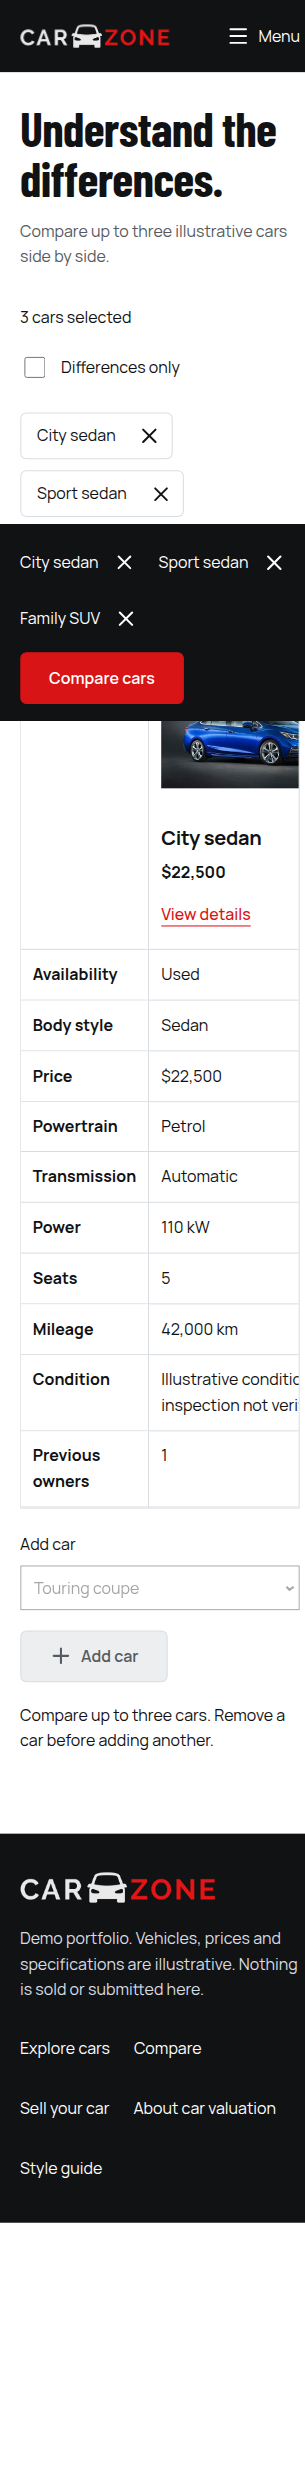
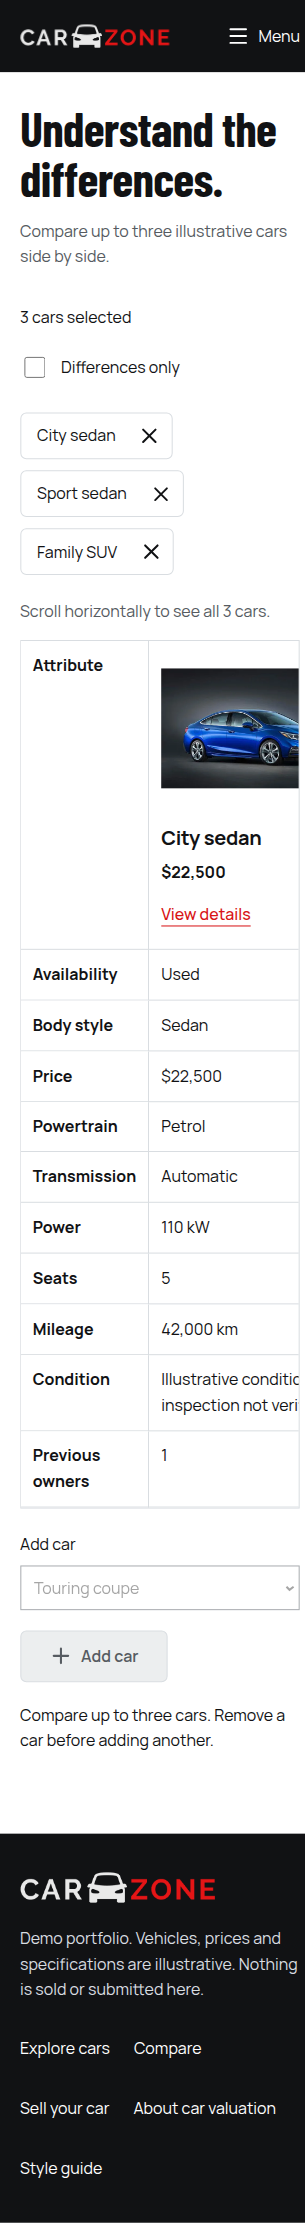
fix: keep compare tray, storage warning and saved undo readable
Hide the sticky compare tray on the compare page and reserve body
space when it is open elsewhere. Keep persistence notices on the
padded banner only. Make page-level Saved Undo sticky at 320.

diff --git a/src/styles/compare.css b/src/styles/compare.css
@@ -27,7 +27,7 @@
 .compare-add p { flex: 1 1 240px; margin: 0; }
 .compare-add .button { gap: 8px; }
 .compare-add .button:disabled { background: #eceeef; color: var(--muted); border-color: var(--line); }
-.compare-tray { position: sticky; bottom: 0; display: flex; align-items: center; justify-content: space-between; flex-wrap: wrap; gap: 16px; padding: 16px var(--gutter) max(16px,env(safe-area-inset-bottom)); background: var(--graphite); color: #fff; }
+.compare-tray { display: flex; align-items: center; justify-content: space-between; flex-wrap: wrap; gap: 16px; padding: 16px var(--gutter) max(16px,env(safe-area-inset-bottom)); background: var(--graphite); color: #fff; }
 .compare-tray ul { display: flex; flex-wrap: wrap; gap: 12px; list-style: none; padding: 0; margin: 0; }
 .compare-tray li { display: flex; gap: 4px; align-items: center; }
 .compare-tray button { display: inline-flex; padding: 10px; border: 0; }
@@ -37,7 +37,8 @@
 .saved-list h3 { font-size: 28px; margin-bottom: 8px; }
 .saved-actions { display: flex; flex-wrap: wrap; gap: 8px; margin-top: 12px; }
 .saved-actions button { display: inline-flex; align-items: center; gap: 8px; }
-.selection-undo { padding: 16px var(--gutter); background: #fff; border-block: 1px solid var(--line); }
+.selection-undo { display: flex; flex-wrap: wrap; align-items: center; gap: 12px 16px; padding: 16px var(--gutter); background: #fff; border-block: 1px solid var(--line); }
+.selection-undo p { margin: 0; flex: 1 1 12rem; }
 [data-saved-undo], [data-compare-undo] { padding-block: 16px; }
 @media (max-width: 700px) {
   .compare-page { padding-top: 32px; }

diff --git a/src/styles/shell.css b/src/styles/shell.css
@@ -136,6 +136,25 @@ dialog::backdrop {
   background: var(--graphite);
   color: #fff;
 }
+body:has(.compare-tray:not([hidden])):not([data-controller="compare"]) {
+  padding-bottom: 96px;
+}
+body[data-controller="compare"] .compare-tray {
+  display: none !important;
+}
+.storage-warning:not([hidden]) {
+  margin: 0;
+  padding-block: 12px 16px;
+  border-bottom: 1px solid var(--line);
+}
+[data-storage-warning]:not([hidden]) {
+  overflow-wrap: anywhere;
+}
+[data-page-saved-undo]:not([hidden]) {
+  position: sticky;
+  top: 0;
+  z-index: 9;
+}
 .vehicle-row {
   display: grid;
   grid-template-columns: minmax(200px,32%) minmax(0,1fr);

diff --git a/docs/qa/carzone-results.md b/docs/qa/carzone-results.md
@@ -4,9 +4,9 @@ Date: 2026-08-31 (Asia/Dhaka), with a 2026-09-01 Playwright follow-up. The origi
 
 ## 2026-09-01 follow-up (Playwright against dist/)
 
-Environment: Node v24.20.0 via nvm (host `/exec-daemon/node` remains 22.14.0; checks used the nvm binary). `npm ci` then `npm run check` on this checkout: **78 tests passed, 0 failed**, `Carzone built to dist.`, `Artifact verification passed.` Preview: `npm run preview` at `http://127.0.0.1:4176/`, serving `dist/` only. Browser: Playwright MCP Chromium, not the earlier Codex in-app browser. Favicon.ico 404 is the only console error observed (browser-default request; not an application asset).
+Environment: Node v24.20.0 via nvm (host `/exec-daemon/node` remains 22.14.0; checks used the nvm binary). Preview: `npm run preview` at `http://127.0.0.1:4176/`, serving `dist/` only. Browser: Playwright Chromium. After the P2 CSS/JS fixes, `npm run check`: **79 tests passed, 0 failed** (one new regression for the storage-warning/toast split), then `Carzone built to dist.` and `Artifact verification passed.`
 
-This follow-up was stopped before a complete visual-acceptance matrix. No application CSS/JS fixes were landed. Remaining P2 findings below are observed, not marked passed.
+This follow-up was stopped before a complete visual-acceptance matrix. The three observed P2 issues were then fixed in application CSS/JS on this branch and recaptured.
 
 ### Recaptured homepage after Task11 (`132f5f8`)
 
@@ -29,13 +29,13 @@ Keyboard: skip link Tab showed **Skip to content** at `top: 12`. Mobile menu Ent
 
 Fourteen routes × 1440/768/390/320: **56/56** with `overflowX ≤ 1` and no `href="#"` placeholders. Reduced-motion emulation: `prefers-reduced-motion: reduce` matched, hero animations 0, opacity 1. No-JS: readable home/inventory, finder and form fieldsets disabled, no submit control, 320px header wraps to expose desktop-nav links (documented no-JS behaviour). CSS `zoom: 2` at 1440 reported overflowX 23; CDP `setPageScaleFactor(2)` reported overflowX 0. Treat 200% as partial, not a pass.
 
-Storage warning (localStorage getter throws): copy **Device storage unavailable; changes last for this page.** at 1440 (`top: 88`, height 26, 16px, transparent background, 0 padding) and 320 (height 51, width 265, overflowX 0). The same copy also appears in the floating `.status` toast. Page-level Undo at 320 measured 208×48 with overflowX 0; the viewport capture scrolled to the clicked row, so the top Undo bar is not in `page-saved-undo-320.png`.
+Pre-fix storage warning (localStorage getter throws) was unpadded graphite text plus a duplicate `[data-status]` toast; pre-fix page-level Undo at 320 was not sticky. Those three P2s are recaptured after the CSS/JS fixes below.
 
-### Open P2 findings (observed, not fixed)
+### P2 fixes (recaptured)
 
-1. **Compare tray covers page content.** On `compare-car.html` with three cars, the shell tray overlapped Availability (28px) and Body style (55px). On inventory it overlapped the last vehicle row by 84px (`body` padding-bottom 0). Mobile/320 compare captures show the tray over the table header/image. Hide the tray on the compare route and reserve space when it is visible elsewhere.
-2. **Storage-warning surface is visually weak and duplicated.** Dedicated `[data-storage-warning]` is unpadded graphite body text flush under the header; `[data-status]` repeats the same sentence and, at 320, covers the Compare cars control.
-3. **Page-level Undo is easy to miss after a mid-list save toggle at 320** because it is not sticky; the toast says undo is available but does not contain the control.
+1. **Compare tray.** The tray is `position: fixed` and hidden on `compare-car.html` (`display: none`). Inventory/home reserve `padding-bottom: 96px` while the tray is open. Recapture: `compare-desktop.png`, `compare-320.png`. Measured Availability overlap 0; tray display `none` on compare; inventory last-row overlap 0 with tray visible.
+2. **Storage warning.** Persistence notices stay on `[data-storage-warning]` only; they are not copied into `[data-status]`. Banner padding `12px 0 16px` with wrapping. Recapture: `storage-warning-320.png`. Toast empty; Compare cars uncovered.
+3. **Page-level Saved Undo.** `[data-page-saved-undo]` is `position: sticky; top: 0`. Recapture: `page-saved-undo-320.png` after unsaving Family SUV mid-list. Undo bar `top: 0`, in view, button 208×48.
 
 Whole-site paired reference comparison is **not** complete. Family captures exist as working notes (`inventory-*`, `vehicle-*`, `compare-*`, `forms-*`) but were not scored against every manifest raster in one inspection pass.
 
@@ -113,7 +113,7 @@ Follow [the browser checklist](carzone-browser-checklist.md) and the approved pl
 
 ## Acceptance status
 
-Automated build/test/artifact gate: **passed** (reconfirmed 2026-09-01). Permitted Playwright journeys listed above were actually run against `dist/`. Whole-site Product Design acceptance is **not complete**: family reference pairing was not finished, three P2 visual issues remain unfixed, and this follow-up was stopped before further recaptures. No real form submission or data export.
+Automated build/test/artifact gate: **passed** (79 tests after the P2 regressions). The three observed P2 visual issues are fixed and recaptured. Whole-site Product Design pairing is still not a finished gate. No real form submission or data export.
 
 ## Final whole-branch source review
 

diff --git a/design-qa.md b/design-qa.md
@@ -13,8 +13,8 @@ Initial rendered evidence is in `docs/qa/screenshots/home-{desktop,mobile}-pass1
 | Surface | Status |
 |---|---|
 | Manrope / Barlow typography, hierarchy, wrapping | Home 1440/768/390/320 recaptured; remaining family pairing unfinished |
-| Spacing, grids, section rhythm, shapes, responsive layout | Task11 home 768/320 passed; compare-tray overlap is an open P2 |
-| Graphite / white / red tokens, contrast, states | Home comparison plus source contrast; warning/toast states observed as P2 |
+| Spacing, grids, section rhythm, shapes, responsive layout | Task11 home 768/320 passed; compare tray no longer covers table/last row |
+| Graphite / white / red tokens, contrast, states | Home comparison plus source contrast; storage warning is a single padded banner |
 | Hero / catalogue imagery, crop, proportions, Lucide icons | Home recaptures inspected; other families captured but not fully paired |
 | Exact copy, honest demo content and interactive state | Listed journeys run; whole-site pairing not claimed |
 
@@ -41,25 +41,25 @@ Remaining inventory, vehicle, comparison and forms captures must each be paired 
 
 All fourteen routes, including the production-component style guide, are implemented. Task11 source review approved the responsive changes, nearest-neighbour comparison focus restoration, readable shared CSS and safe optional/reduced-motion behavior. After the final review fix wave, `npm run check` passed78/78 tests, built the artifact and passed its independent checker. These results do not substitute for rendered comparisons.
 
-The final source fix wave adds an enduring storage-warning surface and page-level Undo for saved-toggle removals. 2026-09-01 rendered both: Undo at 1440 sits below the header with a 44px control and restores focus to Save. The warning at 1440/320 wraps without overflow but is unpadded graphite text and is duplicated by the status toast (open P2). Page-level Undo at 320 is not sticky, so a mid-list toggle leaves the control off-screen (open P2).
+The final source fix wave adds an enduring storage-warning surface and page-level Undo for saved-toggle removals. 2026-09-01 then fixed the rendered P2s: persistence copy lives only on the padded banner (no duplicate toast), and page-level Undo is sticky at 320 after a mid-list unsave. Undo at 1440 still sits below the header with a 44px control.
 
 Source-color calculations: red/white5.209:1, muted/white6.852:1, control boundary/white3.479:1, error/white7.072:1, focus blue/white5.266:1 and focus blue/graphite3.559:1. These are intended solid-color pairings, not measurements of every rendered state/background.
 
 ### 2026-09-01 family captures (working notes, not a finished pairing)
 
-Playwright captured inventory, vehicle, compare and forms at 1440/390 plus extra 768/320 notes. These were inspected for overflow, copy and the compare-tray overlay. They were **not** scored line-by-line against every manifest raster in one inspection input. Whole-site visual acceptance is not claimed.
+Playwright captured inventory, vehicle, compare and forms at 1440/390 plus extra 768/320 notes. Three P2 issues from those captures were fixed and recaptured:
 
-Open P2 from rendered captures:
+- Compare tray no longer covers the table (`compare-desktop.png`, `compare-320.png`). Inventory last-row overlap measured 0 with the tray open.
+- Storage warning is a single padded banner; the toast is empty (`storage-warning-320.png`).
+- Page-level Saved Undo sticks at the top after a mid-list unsave at 320 (`page-saved-undo-320.png`).
 
-- Compare tray covers comparison-table rows and the last inventory row (`compare-desktop.png`, `compare-mobile.png`, `compare-320.png`).
-- Storage warning + status toast duplication (`storage-warning-desktop.png`, `storage-warning-320.png`).
-- Page-level Undo easy to miss at 320 after a scrolled save click (`page-saved-undo-320.png` shows the row, not the top bar).
+Family reference pairing against every manifest raster remains unfinished.
 
 ## Findings
 
 - Task11 home 768/320 defects are visually resolved in the 2026-09-01 recaptures.
 - Buyer/inventory/saved-compare/forms/keyboard journeys were run against `dist/`; see `docs/qa/carzone-results.md`.
-- Three P2 visual issues remain unfixed. Family reference pairing was not finished. This follow-up was stopped before further recaptures.
+- The three observed P2 visual issues are fixed in CSS/JS and recaptured. Whole-site pairing is not claimed complete.
 
 ## Implementation checklist
 
@@ -69,4 +69,4 @@ Open P2 from rendered captures:
 - Extend the same comparison to every remaining route family and key states.
 - Record responsive, keyboard and privacy observations in `docs/qa/carzone-results.md`.
 
-final result: incomplete — Task11 home recaptures and listed journeys done; whole-site pairing and P2 fixes not done
+final result: incomplete pairing — Task11 recaptures, listed journeys, and three P2 fixes done

diff --git a/README.md b/README.md
@@ -65,7 +65,7 @@ First-homepage desktop/mobile captures verified local CSS/fonts/images, visible 
 
 The host also rewrites HTML response headers: native HTML/HEAD Content-Length and actual CSS network length are tested separately. Browser performance timings/transfer bytes are unavailable; file sizes are not labelled network measurements. No Lighthouse or Web Vitals score is claimed.
 
-A 2026-09-01 Playwright session recaptured home at 768 and 320 after Task11, ran the main buyer/inventory/saved-compare/forms/keyboard journeys, and measured all fourteen routes at four widths. Whole-site Product Design pairing is still unfinished. Observed unfixed P2: compare tray overlapping content, duplicated/unstyled storage warning, page-level Undo easy to miss at 320. Details: [QA results](docs/qa/carzone-results.md) and [design QA](design-qa.md).
+A 2026-09-01 Playwright session recaptured home at 768 and 320 after Task11, ran the main journeys, then fixed three P2 issues (compare tray overlap, duplicate storage warning, sticky Saved Undo at 320). `npm run check`: **79 tests, 0 failures**. Whole-site Product Design pairing is still unfinished. Details: [QA results](docs/qa/carzone-results.md) and [design QA](design-qa.md).
 
 ## Project records
 

diff --git a/docs/qa/carzone-browser-checklist.md b/docs/qa/carzone-browser-checklist.md
@@ -4,7 +4,7 @@ Scope: the fourteen existing routes in the approved modernization specification.
 
 The original checklist assumed the Codex in-app browser. The 2026-09-01 follow-up used Playwright against `http://127.0.0.1:4176/` (`dist/` only). Screenshots and observed outcomes belong in `carzone-results.md`; this checklist is not evidence of passing tests.
 
-**Current gate: incomplete.** 2026-09-01 Playwright against `http://127.0.0.1:4176/` (`dist/` only) ran the buyer / inventory / saved-compare / forms / keyboard / 14-route overflow checks recorded in `carzone-results.md`. Whole-site Product Design pairing is not finished. Three observed P2 issues were not fixed in this pass. Do not treat skipped pairing as a pass.
+**Current gate: incomplete pairing.** 2026-09-01 Playwright against `dist/` ran the listed journeys. The three observed P2 issues (compare tray, duplicate storage warning, 320 Saved Undo) are fixed and recaptured. Do not treat unfinished family pairing as a pass.
 
 ## Buyer journey and state
 
